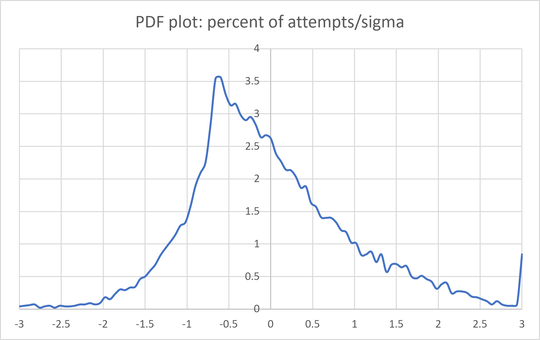
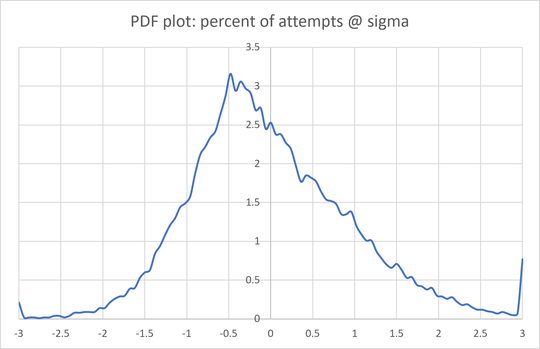
Updated attempts PDF plot.

diff --git a/README.md b/README.md
@@ -205,9 +205,9 @@ performed since it makes required budget unpredictable. But if several
 attempts are performed, it is a positive property: it means that in some
 optimization attempts BiteOpt converges faster and may find a better optimum
 with the same iteration budget per attempt. Based on `test2.cpp`
-(2-dimensional) and `test3.cpp` (14-dimensional) test corpuses, only about
-1% of attempts require more than 3\*sigma iterations, 58% of attempts require
-less than the mean. A typical probability distribution of percent of
+(2-dimensional) and `test3.cpp` (14-dimensional) test corpuses, less than
+0.9% of attempts require more than 3\*sigma iterations, 54% of attempts
+require less than the mean. A typical probability distribution of percent of
 attempts/sigma is as follows (discretized, not centered around 0 because it
 deviates from the standard distribution, the mean corresponds to 0\*sigma):
 
